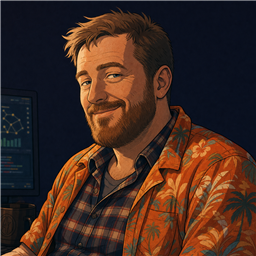
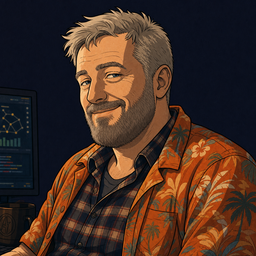
alex_it de-gingered portrait set shipped (all four moods) + locked reference-sheet template in PROMPTS.md + bible palette line updated
Claude-Session: https://claude.ai/code/session_01BNkVoxa8VK4aBXbwYY2pzk

diff --git a/art/PROMPTS.md b/art/PROMPTS.md
@@ -38,6 +38,7 @@ reads as one set. Output: 512×512 PNG → `src/assets/portraits/<stem>.png`. Mo
 |------|------|--------|-------|
 | 2026-06-10 | — | pipeline wired, awaiting first batch | DialogBox auto-detects PNGs in src/assets/portraits/ |
 | 2026-07-29 | isaiah | rev 2 shipped (neutral only — no mood variants exist for isaiah) | Generated via `codex exec` + `$imagegen2`, style-refed against janet/alex_it/andrew 1024 raws. 1024 raw → `art/portraits_raw/isaiah.png`, LANCZOS → 256 in `src/assets/portraits/isaiah.png`. |
+| 2026-07-31 | alex_it | rev 3 shipped — all four moods (neutral / angry / smug / worried) | **Likeness revision: ginger beard removed.** Now ash-blond hair with subtle grey flecks + a fuller trimmed taupe grey-brown beard, strong straight brow, steady eyes, defined jaw under the beard. Old rev-2 ginger set archived to `art/portraits_archive/alex_it/{raw,shipped_256}/`. Style-refed against each mood's OWN old raw for framing/composition, with an explicit colour-override instruction in the preamble ("same framing and rendering as the reference, but hair and beard colours per this description, not the reference's") plus a hard HAIR AND BEARD COLOUR block forbidding ginger/red/orange/copper — the reference image will otherwise re-impose the colour it is supposed to be correcting. 1254 raws → `art/portraits_raw/alex_it*.png`, LANCZOS → 256² RGBA shipped. Never pass the co-creator's reference photo. |
 | 2026-07-31 | rachel_to | rev 2 shipped (neutral only) | Generated via `codex exec` + `$imagegen2`, style-refed against karen/janet/andrew 1024 raws. Rev 1 came back soft-painterly with thin linework — correct likeness, wrong house style — so the prompt gained the explicit RENDERING block and was re-run once; rev 1 kept at `art/portraits_raw/rachel_to_alt_painterly.png` if the producer prefers it. 1254 raw → `art/portraits_raw/rachel_to.png`, LANCZOS → 256² RGBA in `src/assets/portraits/rachel_to.png`. Framing sits marginally wider (chest-up) than andrew/janet — flag if it reads out of set in DialogBox. |
 
 ---
@@ -74,3 +75,73 @@ loader picks it up with no code change — keep a 1024 raw in `art/epilogues_raw
 no readable text anywhere in any plate; keep to the eight existing plates' palette so the
 sequence reads as one set. Photo-privacy rule applies as always — describe textually, never
 pass a reference photo.
+
+---
+
+# Character Model Reference Sheets — LOCKED TEMPLATE (added 2026-07-31, run G1)
+
+Topology/proportion references for the 3D character rebuild. **Not shipped game art** —
+they live in `art/char_refs/generated/` (gitignored) and exist to guide `CharacterBuilder.js`.
+Producer ballot 2026-07-31 confirmed: **three views, height pinned at 7 heads, and the
+semi-realistic rendering drift is KEPT** for these sheets (the flat-cel law in the style prefix
+above binds *shipped portraits only*).
+
+Pipeline is the same as the portraits — `codex exec` + `$imagegen2`, one character per call,
+style-refed against that character's own 1024 raw in `art/portraits_raw/`:
+
+```
+codex exec -C <repo> -s danger-full-access --dangerously-bypass-approvals-and-sandbox \
+  -i <repo>/art/portraits_raw/<id>.png - < <prompt>.txt
+```
+
+## Template blocks (concatenate in this order)
+
+1. **VIEWS** — "THREE views of the SAME character standing in a row at identical scale with
+   heads and feet aligned: a straight FRONT view; a TRUE THREE-QUARTER view rotated 45 degrees
+   so one shoulder is clearly nearer the camera and the far shoulder is partly hidden; a PURE
+   SIDE PROFILE rotated a full 90 degrees so only one eye, one arm and one leg are visible in
+   silhouette. Standing neutral relaxed A-pose, complete crown to shoes, nothing cropped."
+   *The profile view is the highest-value one — it is the only angle that adjudicates the
+   hair-containment law and the neck taper.*
+2. **CHARACTER** — silhouette, palette hexes and signature props per `CHARACTER_BIBLE.md` LAW 7
+   and the character's `characters.js` entry.
+3. **HAND CALLOUT ROW** — "along the bottom, clearly separated by empty space, four larger hand
+   studies: one open relaxed hand front, the same side, one closed gripping hand front wrapped
+   around <that character's prop>, the same side."
+4. **STYLE** — "matching the attached portrait's palette and rendering — clean shapes, limited
+   muted office palette, cel shading with clear form, one soft warm key light from upper left,
+   semi-realistic reference-sheet rendering that reads the volumes clearly."
+5. **PROPORTION LAW** — "EXACTLY 7 head-heights, do not elongate the legs in a
+   fashion-illustration way, the crotch line sits at half the total standing height, small head,
+   natural <2.0 male / 1.6 female / 2.4 Chad> head-widths shoulder width, visible neck column no
+   more than half a head wide, hair contained above the jawline and never wrapping forward past
+   the ear line — verify this in the side profile view — face on human thirds with the eye line
+   at half the skull height, relaxed pleasant open eyes, fingertips reach mid-thigh, arm span
+   equal to standing height, single-silhouette limbs with no lumpy ball joints, no caricature,
+   no chibi." **Grandma is the one exception at 6 heads** (bible ruling: she may stay petite).
+6. **HYGIENE** — "plain flat light neutral-gray background, even flat lighting, no text, no
+   lettering, no labels, no watermark, no captions, no logos, no measurement lines."
+
+## `_hands_reference.png`
+
+One standalone universal hand sheet covering the characters generated before the hand-callout
+row was added (andrew, karen). It documents the **game's actual hand vocabulary** as built in
+`CharacterBuilder.js:499–508` — a soft mitten-like palm mass with the four fingers merged plus
+ONE separated thumb sphere — in three rows: open/relaxed, gripping-empty, and gripping the
+game's real props (coffee mug, smartphone, briefcase handle), each front + side.
+
+**Known divergence, logged:** the per-character hand callout rows came back with *realistic
+articulated* hands on every sheet despite asking for the mitten form — the surrounding
+semi-realistic figure overrides it. That is arguably the more useful reference (it shows the
+anatomy the mitten is abstracting), so it was left alone; `_hands_reference.png` is the
+authority on the simplified vocabulary the 3D build actually uses.
+
+## Sheet log
+
+| date | sheet | notes |
+|------|-------|-------|
+| 2026-07-31 | karen_body (v1) | 2-view calibration pass, superseded by v2; kept for comparison |
+| 2026-07-31 | andrew_body | 2-view calibration pass; predates the three-view + hand-row template |
+| 2026-07-31 | karen_body_v2 | first sheet on the locked three-view template |
+| 2026-07-31 | chad, grandma, ross, rachel, janet, intern, janitor, diane, alex_it, rachel_to | full friendly-cast batch on the locked template; `intern` needed one retry (transient generator failure, not a refusal) |
+| 2026-07-31 | _hands_reference | universal mitten+thumb hand vocabulary sheet |

diff --git a/art/CHARACTER_BIBLE.md b/art/CHARACTER_BIBLE.md
@@ -134,4 +134,4 @@ The scrunch comes from heavy lids + hard socket shadow + a default frown. Strip 
 10. **diane** (~50 composed Black woman, HR) — upright, steady, 1.6-shoulder blazer
     `0x2d2d4e`; deep skin `0xd4a574` / dark bun; clipboard, deep-brown eyes `0x2e1d12`, warm and unhurried.
 11. **alex_it** (late-30s IT) — relaxed casual stance; orange Hawaiian `0xe07040` over
-    plaid `0x8a6a4a` / sandy hair `0x9a7a4a`; ginger beard `0x8a5f38`, Dirk-Gently hazel eyes, friendly and rumpled.
+    plaid `0x8a6a4a` / ash-blond hair 0x8a7c62 with grey flecks; taupe grey-brown beard 0x6e6152, Dirk-Gently hazel eyes, friendly and rumpled.
